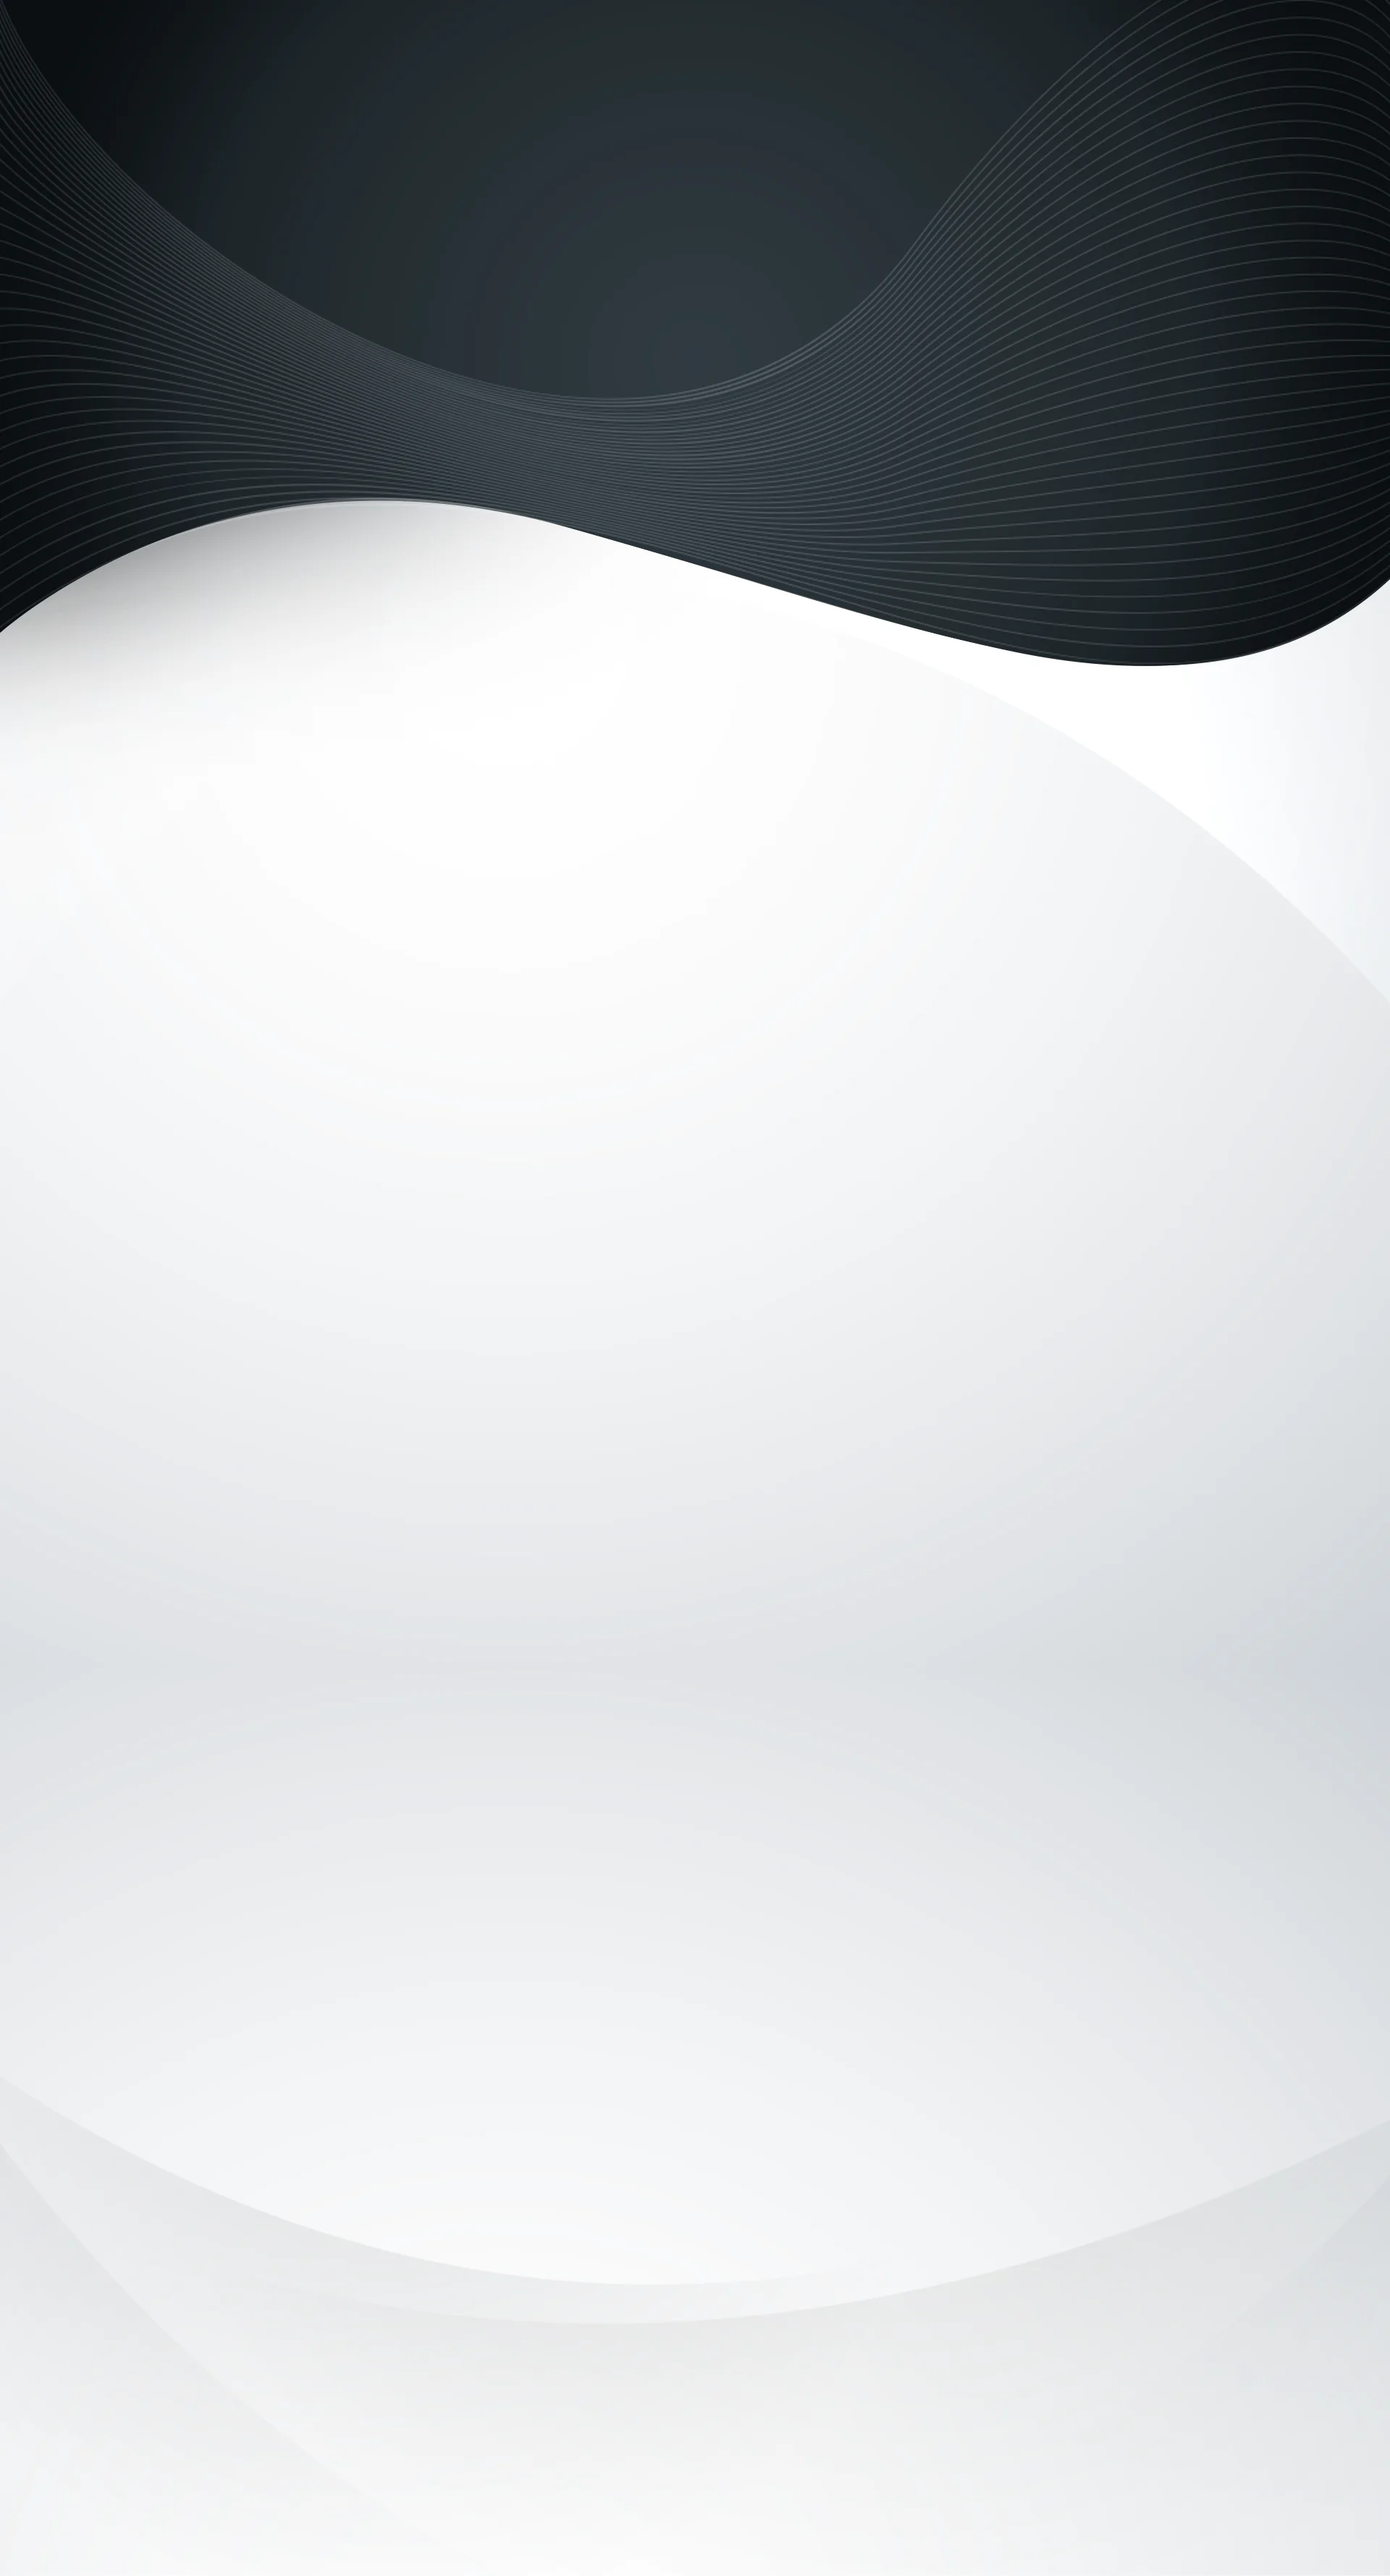
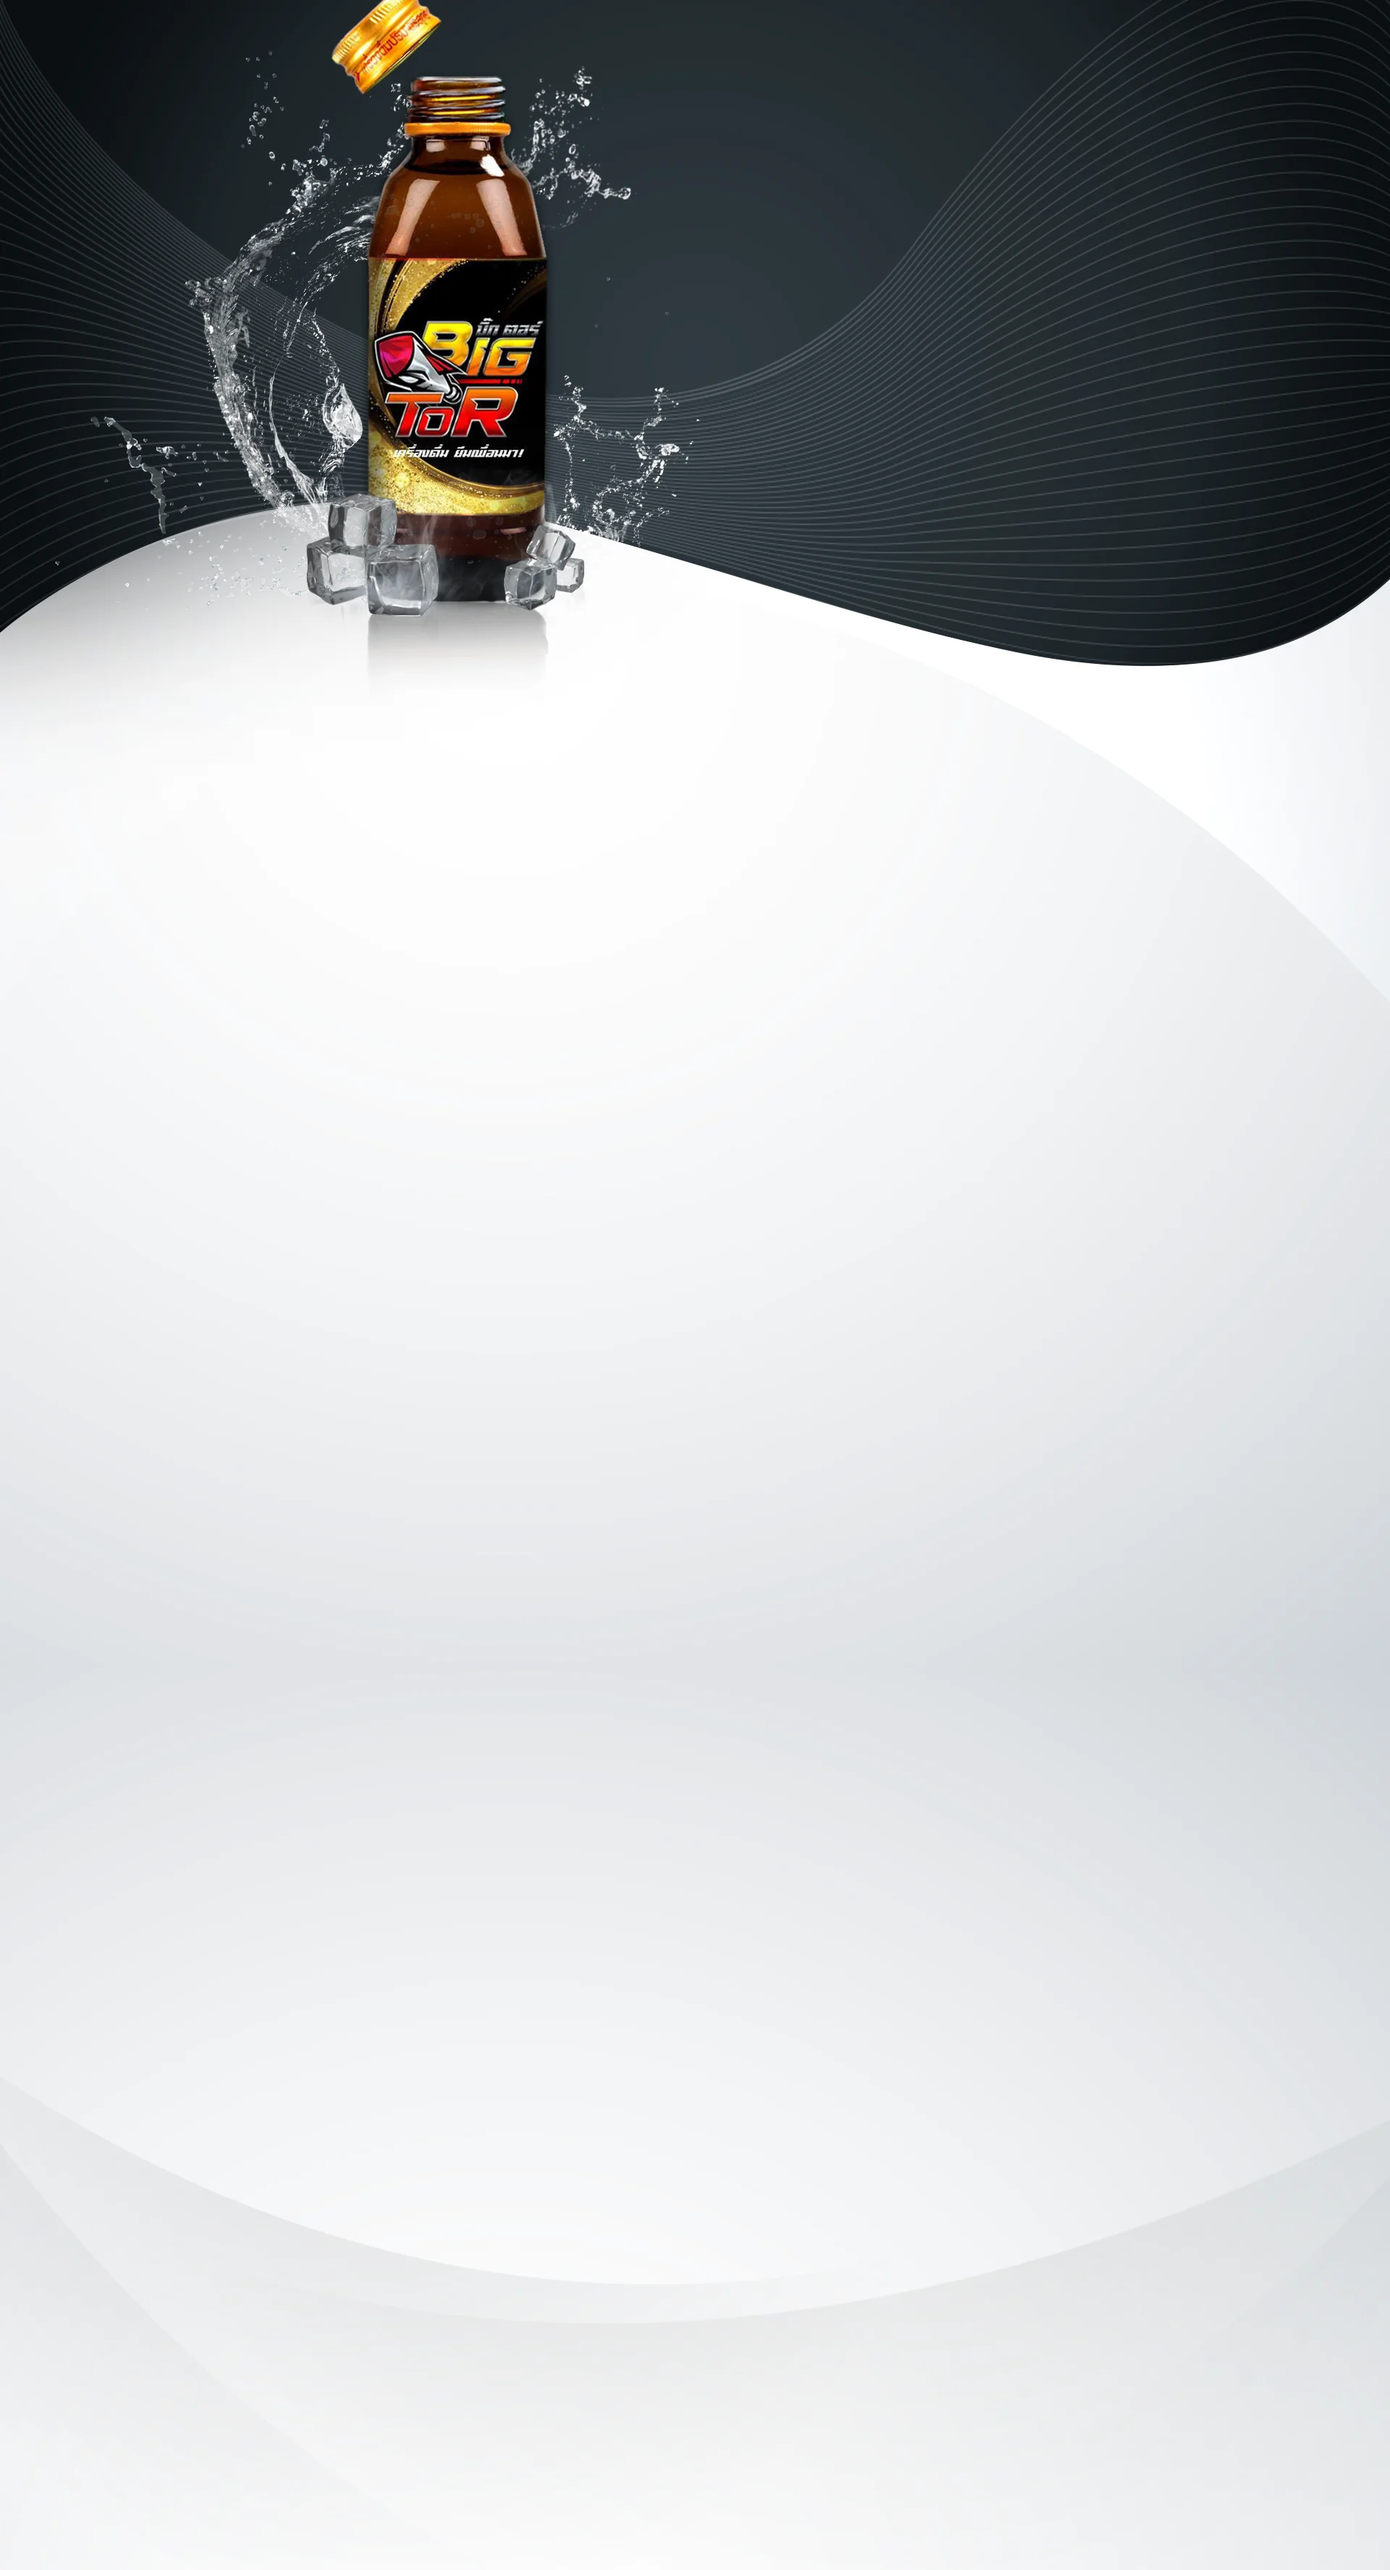
10:57 PM 11/2/2020

Changed region(s): [[0.125, 0.0, 0.5312, 0.2789], [0.0625, 0.1549, 0.125, 0.2169]]

diff --git a/index.html b/index.html
@@ -83,15 +83,131 @@
         <div class="container-fluid p-0 m-body2">
             <div class="col">
                 <div class="row">
-                    <div class="col-6">
-                        <img src="images/bigtor.png">
+                    <div class="col-xl-6 col-12"> 
                     </div>
-                    <div class="col-6">
-                        
+                    <div class="col-xl-6 col-12">
+                        <div class="clearfix">&nbsp;</div>
+                        <div class="clearfix">&nbsp;</div>
+                        <div class="clearfix">&nbsp;</div>
+                        <div class="clearfix">&nbsp;</div>
+                        <div class="clearfix">&nbsp;</div>
+                        <img src="images/Text.png" class="img-fluid d-block mx-auto">
                     </div>
                 </div>
+  
+                <div class="clearfix">&nbsp;</div>
+                <div class="clearfix">&nbsp;</div>
+                <div class="clearfix">&nbsp;</div>
+
+                <div class="container">
+                    <div class="col index-t"> 
+                        <h1>กิจกรรมลุ้นรับเงิน</h1>
+                        <p>
+                            ร่วมเล่นกิจกรรมตอบคำถามง่ายๆกับผลิตภัณฑ์เครื่องดื่มบิ๊กตอร์ เพื่อมีสิทธิ์ลุ้นรับเงินรางวัลมูลค่าหลักล้าน <br>
+                            มีการจับรางวัลประจำวัน ประจำสัปดาห์ และประจำเดือน เริ่ม 11 ตุลาคม 63 เป็นต้นไป
+                        </p>
+                    </div>
+                    <div class="col index-m">
+                        <div class="clearfix">&nbsp;</div>
+                        <div class="clearfix">&nbsp;</div> 
+                        <h1 class="h1-g"><img src="images/tBIG-TOR.png" class="img-fluid d-block mx-auto"> แจกโชค <span>3</span> ชั้น </h1>
+                        <br>
+                        <h1 class="h1-g">  มูลค่ากว่า <span class="x shadow"> <span class="n">50</span> ล้านบาท</span>   </h1>
+                        <div class="clearfix">&nbsp;</div> 
+                        <div class="clearfix">&nbsp;</div> 
+                        <h1 class="h1-g">โชคชั้นที่ 1 ลุ้นรับเงินรางวัล (ประจำวัน) </h1>
+                        <h1 class="h1-g1">-เงินสด 1 แสนบาท 10 รางวัล-</h1>
+                        
+                        <div class="clearfix">&nbsp;</div> 
+
+                        <div class="col">
+                            <img src="images/c1.png" class=" ccc">
+                            <img src="images/mm.png" class="img-fluid d-block mx-auto">
+                        </div>  
+
+                        <div class="clearfix">&nbsp;</div>
+                        <div  class="col hr1"> </div>
+
+
+                        <div class="clearfix">&nbsp;</div> 
+                        <h1 class="h1-g">โชคชั้นที่ 2 ลุ้นรับเงินรางวัล (ประจำสัปดาห์)  </h1>
+                        <h1 class="h1-g1">-เงินสด 5 แสนบาท 6 รางวัล-</h1>
+                        
+                        <div class="clearfix">&nbsp;</div> 
+
+                        <div class="col">
+                            <img src="images/c2.png" class=" ccc">
+                            <img src="images/mm2.png" class="img-fluid d-block mx-auto">
+                        </div>  
+
+                        <div class="clearfix">&nbsp;</div>
+                        <div  class="col hr1"> </div>
+
+                        <div class="clearfix">&nbsp;</div> 
+                        <h1 class="h1-g">โชคชั้นที่ 3 ลุ้นรับเงินรางวัล (ประจำสัปดาห์)  </h1>
+                        <h1 class="h1-g1">-เงินสด 1 ล้านบาท 3 รางวัล-</h1>
+                        
+                        <div class="clearfix">&nbsp;</div> 
+
+                        <div class="col">
+                            <img src="images/c3.png" class=" ccc">
+                            <img src="images/mm3.png" class="img-fluid d-block mx-auto">
+                        </div>  
+
+
+
+                        <div class="clearfix">&nbsp;</div>
+                        <img src="images/53.png" class="cc53"> 
+                      
+ 
+                        <div class="clearfix">&nbsp;</div>
+                    </div>
+                </div>
+                <div class="clearfix">&nbsp;</div>
+                <div class="clearfix">&nbsp;</div>
+
+                <div class="col index-t"> 
+                    <h1>ระยะเวลาสิ้นสุด</h1>
+                    <div class="col box-count">
+                        <div class="row justify-content-center ">
+                            <div class="col-xl-4">
+                                <div class="row">
+                                    <div class="col-xl-3 col-12">
+                                        <div class="box">
+                                            00
+                                        </div>
+                                        <h3>วัน</h3>
+                                    </div>
+                                    <div class="col-xl-3 col-12">
+                                        <div class="box">
+                                            00
+                                        </div>
+                                        <h3>ชั่วโมง</h3>
+                                    </div>
+                                    <div class="col-xl-3 col-12">
+                                        <div class="box">
+                                            00
+                                        </div>
+                                        <h3>นาที</h3>
+                                    </div>
+                                    <div class="col-xl-3 col-12">
+                                        <div class="box">
+                                            00
+                                        </div>
+                                        <h3>นาที</h3>
+                                    </div>
+                                </div>
+                            </div>
+                        </div>
+                    </div>
+                </div>
+
+                <div class="clearfix">&nbsp;</div>
             </div>
         </div>
+
+        
+
     </main>
     <footer>
         <div class="container-fluid p-0 f-1">

diff --git a/css/main.css b/css/main.css
@@ -193,7 +193,8 @@ nav .order-2 form input[type="text"]:focus{
 .m-body2{ 
   background: url(../images/bg-main.webp);
   background-position: top center;
-  background-repeat: no-repeat; 
+  background-repeat: no-repeat;  
+  background-size: 100% 100% ;
 }
 
 .box1{
@@ -520,6 +521,98 @@ footer .f-2 .bb2 a{
 }
 .navbar .navbar-collapse .dropdown-menu .dropdown-item:hover{ 
   background-color: rgba(31,31,31,1); 
+}
+
+
+.index-t h1{
+  color: #283135;
+  font-family: supermarket;
+  text-align: center; 
+  font-size: 60px;
+}
+
+.index-t p{
+  color: #283135;
+  font-family: supermarket;
+  text-align: center; 
+  font-size: 24px;
+}
+.index-m{
+  background-color: #283135;
+  border-radius: 15px;
+  border: 4px solid #e9cb5b;
+}
+.h1-g img{
+  width: 400px;
+  margin-top: -30px;
+} 
+.h1-g{
+  font-size: 60px; 
+  color: #fff; 
+  font-family: supermarket; 
+  text-align: center;
+} 
+.h1-g span{
+  font-size: 60px; 
+  color: #fff; 
+  font-family: Aqua-Grotesque; 
+  text-align: center;
+} 
+.h1-g span.x{
+  background-image: linear-gradient(to bottom, #c80909, #aa060b, #8d040b, #710408, #560402);
+  border-radius: 15px;
+  padding: 0px 20px;
+  font-family: supermarket; 
+  border: 1px solid #fff;
+  border-bottom: none;
+} 
+
+.h1-g span.x span.n{ 
+  font-family: Aqua-Grotesque; 
+}
+.h1-g1{
+  font-size: 72px; 
+  color: #c0d4dd; 
+  font-family: supermarket; 
+  text-align: center;
+} 
+.ccc{
+  position: absolute;
+  left: 10%;
+}
+.cc53{
+  position: absolute;
+  left: 0;
+  bottom: 0;
+  margin-left: -96px;
+  margin-bottom: -90px;
+}
+.hr1{
+  background-image: url(../images/hr1.png);
+  background-repeat: no-repeat;
+  background-position: center center;
+  background-size: 50% 2px;
+  height: 20px;
+}
+.box-count h3{
+  color: #2b3538;
+  font-weight: 24px;
+  font-family: supermarket; 
+  text-align: center;
+}
+
+.box-count .box{
+  background-image: url(../images/box-con.png);
+  background-repeat: no-repeat;
+  background-position: center center;
+  background-size: 120px 120px;
+  height: 120px; 
+  text-align: center;
+  color: #fff;
+  font-family: supermarket; 
+  font-size: 80px; 
+  line-height: 110px;
+  margin-bottom: 15px;
 }
 
 
